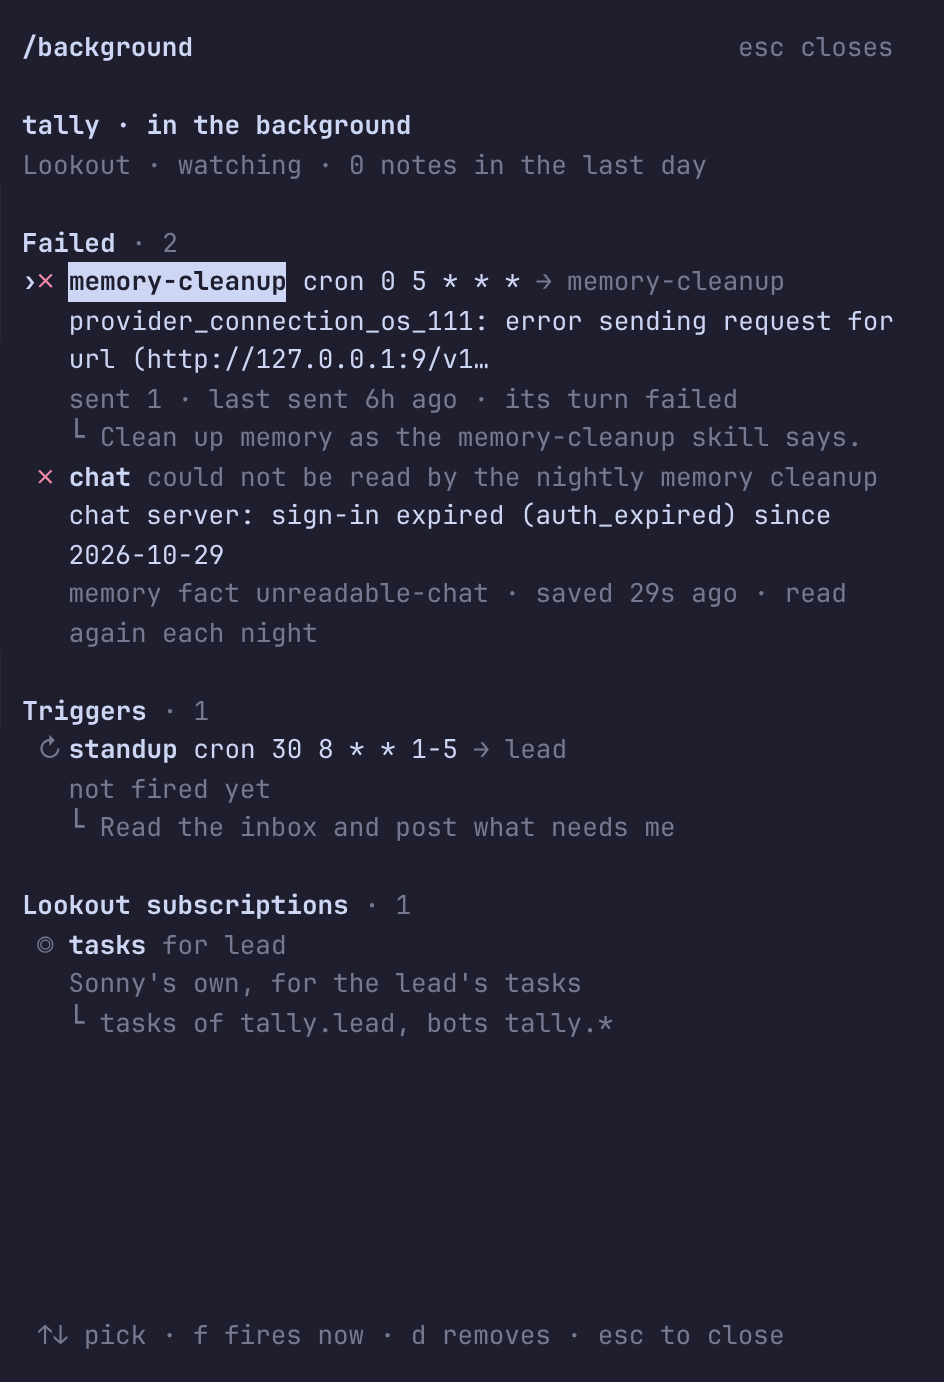
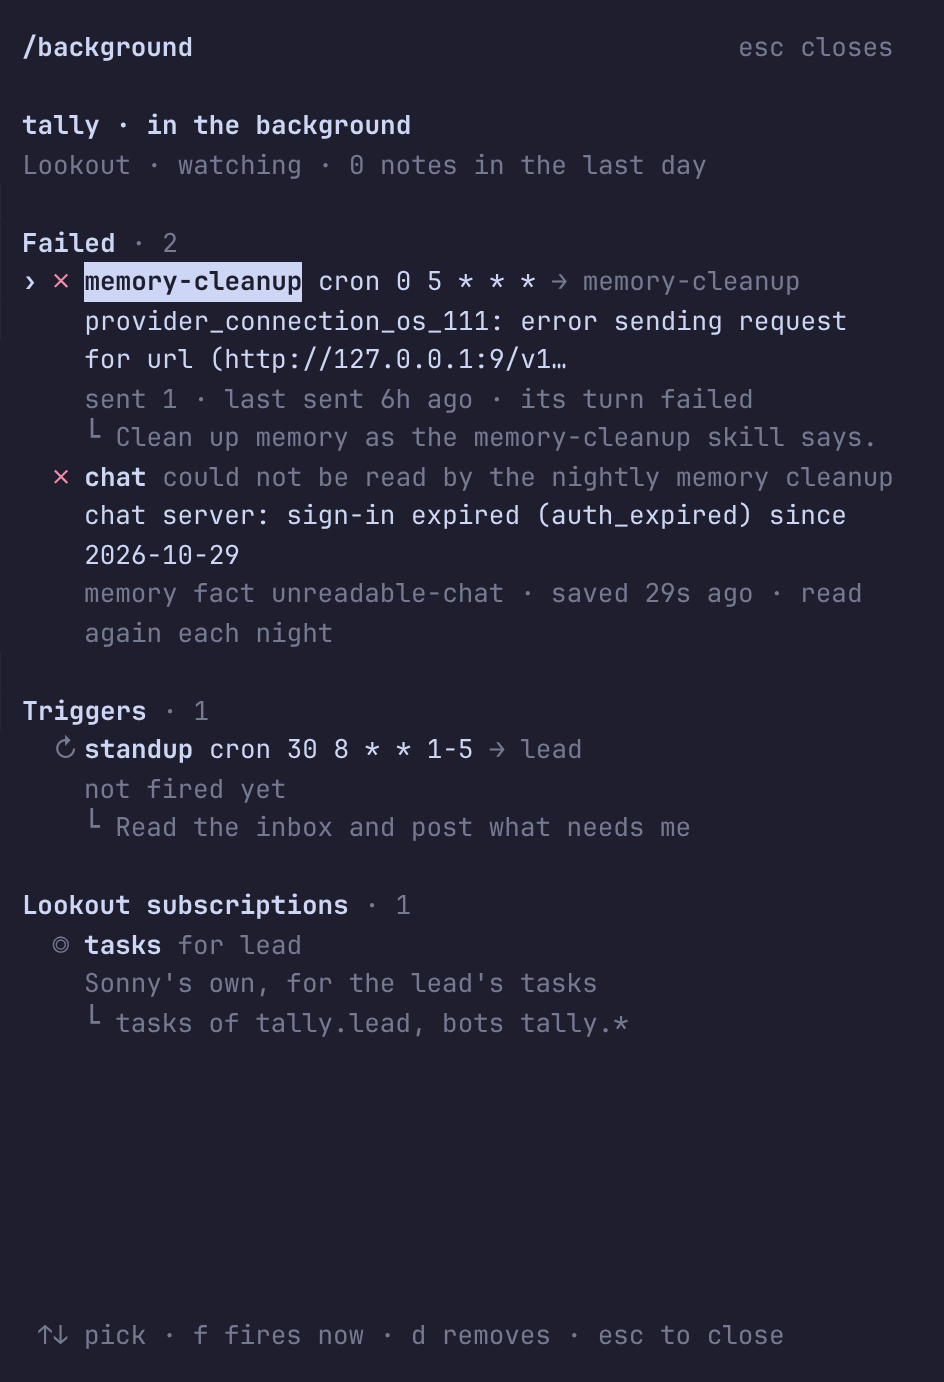
Sonny: /background's pick has a column of its own, apart from the row's mark
`›` sat against the row's mark (`›✗`, `›↻`), which read as a glitch. It
now takes two columns, as the composer's `› ` does, and every line after
a row's first starts under its name.

Claude-Session: https://claude.ai/code/session_013jkdGEbQZnXUy1kATtYcQ6

diff --git a/sonny/src/background.rs b/sonny/src/background.rs
@@ -546,9 +546,12 @@ impl View {
 
     fn item_lines(&self, item: &Item, picked: bool, width: usize) -> Vec<Line<'static>> {
         let mut out = Vec::new();
+        // The pick has a column of its own, as the composer's `› ` does,
+        // so it never touches the row's mark; what follows lines up under
+        // the name.
         let pick = match picked {
-            true => Span::raw("›").bold(),
-            false => Span::raw(" "),
+            true => Span::raw("› ").bold(),
+            false => Span::raw("  "),
         };
         // Sonny's one mark for what failed, as `/status` shows a task.
         let mark = match item.kind {
@@ -578,14 +581,14 @@ impl View {
             Line::from(spans),
             width,
             Span::raw(""),
-            Span::raw("   "),
+            Span::raw(INDENT),
         ));
         if let Some(why) = &item.failed {
             out.extend(crate::transcript::wrap(
                 Line::from(why.clone()),
                 width,
-                Span::raw("   "),
-                Span::raw("   "),
+                Span::raw(INDENT),
+                Span::raw(INDENT),
             ));
         }
         let mut facts = item.facts.clone();
@@ -596,15 +599,15 @@ impl View {
             out.extend(crate::transcript::wrap(
                 Line::from(facts.join(" · ")).dim(),
                 width,
-                Span::raw("   "),
-                Span::raw("   "),
+                Span::raw(INDENT),
+                Span::raw(INDENT),
             ));
         }
         if !item.what.is_empty() {
             out.extend(crate::transcript::capped(
                 Line::from(item.what.clone()).dim(),
                 width,
-                Span::raw("   └ ").dim(),
+                Span::raw(format!("{INDENT}└ ")).dim(),
                 1,
             ));
         }
@@ -637,6 +640,10 @@ impl View {
         Line::from(format!("  {}", keys.join(" · "))).dim()
     }
 }
+
+/// Where a row's lines after the first start: under its name, past the
+/// pick and the mark.
+const INDENT: &str = "    ";
 
 fn key_of(item: &Item) -> (Kind, String, String) {
     (item.kind, item.bot.clone(), item.name.clone())
@@ -870,25 +877,25 @@ mod tests {
         let (card, at) = view.card(100);
         let lines: Vec<String> = card.iter().map(|l| l.to_string()).collect();
         assert_eq!(lines[2], "Failed · 2");
-        assert_eq!(lines[3], " ✗ memory every 1d → memory-cleanup");
+        assert_eq!(lines[3], "  ✗ memory every 1d → memory-cleanup");
         let mark = card[3]
             .spans
             .iter()
             .find(|s| s.content.starts_with('✗'))
             .unwrap();
         assert_eq!(mark.style.fg, Some(Color::Red));
-        assert_eq!(lines[4], "   provider_failed: login expired");
+        assert_eq!(lines[4], "    provider_failed: login expired");
         assert_eq!(
             card[4].style.add_modifier,
             ratatui::style::Modifier::empty()
         );
         assert_eq!(
             lines[7],
-            "›✗ chat could not be read by the nightly memory cleanup"
+            "› ✗ chat could not be read by the nightly memory cleanup"
         );
         assert_eq!(at, 7);
-        assert_eq!(lines[8], "   chat server: auth_expired");
-        assert_eq!(lines[9], "   memory fact unreadable-chat");
+        assert_eq!(lines[8], "    chat server: auth_expired");
+        assert_eq!(lines[9], "    memory fact unreadable-chat");
         assert_eq!(lines[11], "Triggers · 1");
         assert_eq!(view.footer().to_string(), "  ↑↓ pick · esc to close");
         let press = |view: &mut View, code| view.key(KeyEvent::new(code, KeyModifiers::NONE));
@@ -932,11 +939,11 @@ mod tests {
         let lines = text(&view);
         assert_eq!(lines[0], "calc · in the background");
         assert_eq!(lines[3], "Triggers · 1");
-        assert_eq!(lines[4], "›↻ nightly every 1d → lead");
-        assert_eq!(lines[5], "   sent 2");
-        assert_eq!(lines[6], "   └ Read preferences.md");
+        assert_eq!(lines[4], "› ↻ nightly every 1d → lead");
+        assert_eq!(lines[5], "    sent 2");
+        assert_eq!(lines[6], "    └ Read preferences.md");
         assert_eq!(lines[8], "Lookout subscriptions · 1");
-        assert_eq!(lines[9], " ◎ tasks for lead");
+        assert_eq!(lines[9], "  ◎ tasks for lead");
         let press = |view: &mut View, code| view.key(KeyEvent::new(code, KeyModifiers::NONE));
         // Ctrl+D is not d.
         view.key(KeyEvent::new(KeyCode::Char('d'), KeyModifiers::CONTROL));
